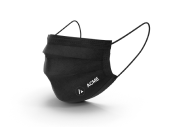
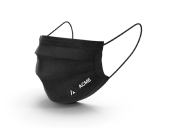
Item detail correção de cor, desktop tag em posição certa

Changed region(s): [[0.2059, 0.1429, 0.8824, 0.8], [0.4118, 0.5429, 0.5882, 0.6857]]

diff --git a/assets/javascript/index.js b/assets/javascript/index.js
@@ -71,7 +71,7 @@ function createShowcaseItem(item){
     infoConteiner.classList.add('showcase-item-info-conteiner')
     itemTag.classList.add('showcase-item-tag')
     itemName.classList.add('showcase-item-name')
-    itemInfo.classList.add('showcase-item-info')
+    itemInfo.classList.add('showcase-item-detail')
     itemPrice.classList.add('showcase-item-price')
     itemAdd.classList.add('showcase-item-add')
 

diff --git a/assets/css/style.css b/assets/css/style.css
@@ -386,4 +386,12 @@ main {
     #showcase {
         width: 65%;
     }
+    .showcase-item {
+        position: relative;
+    }
+    .showcase-item-tag {
+        position: absolute;
+        top: 2%;
+        left: 2%;
+    }
 }
